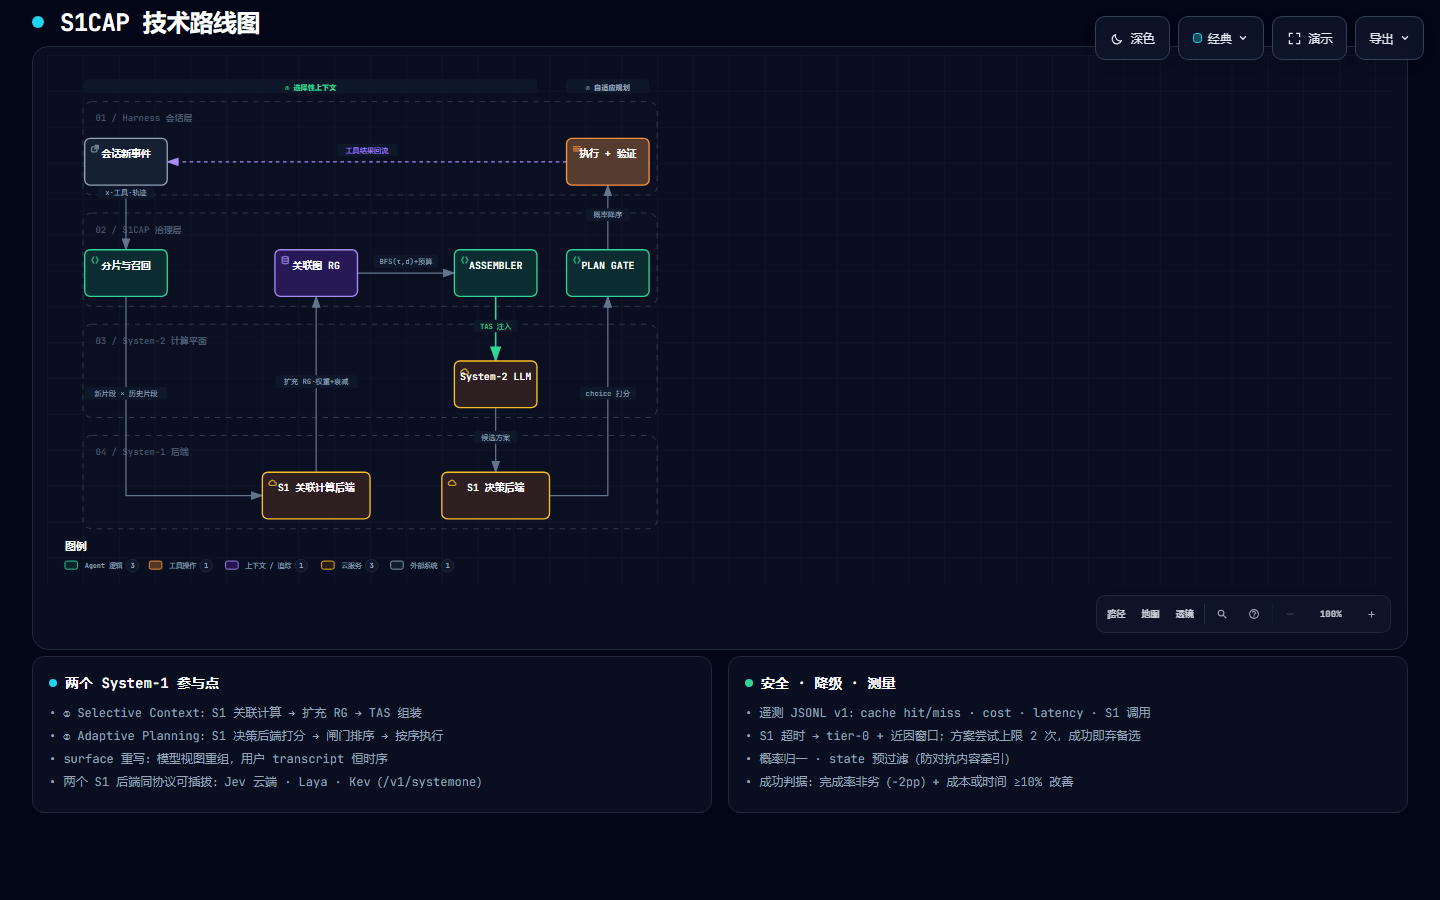
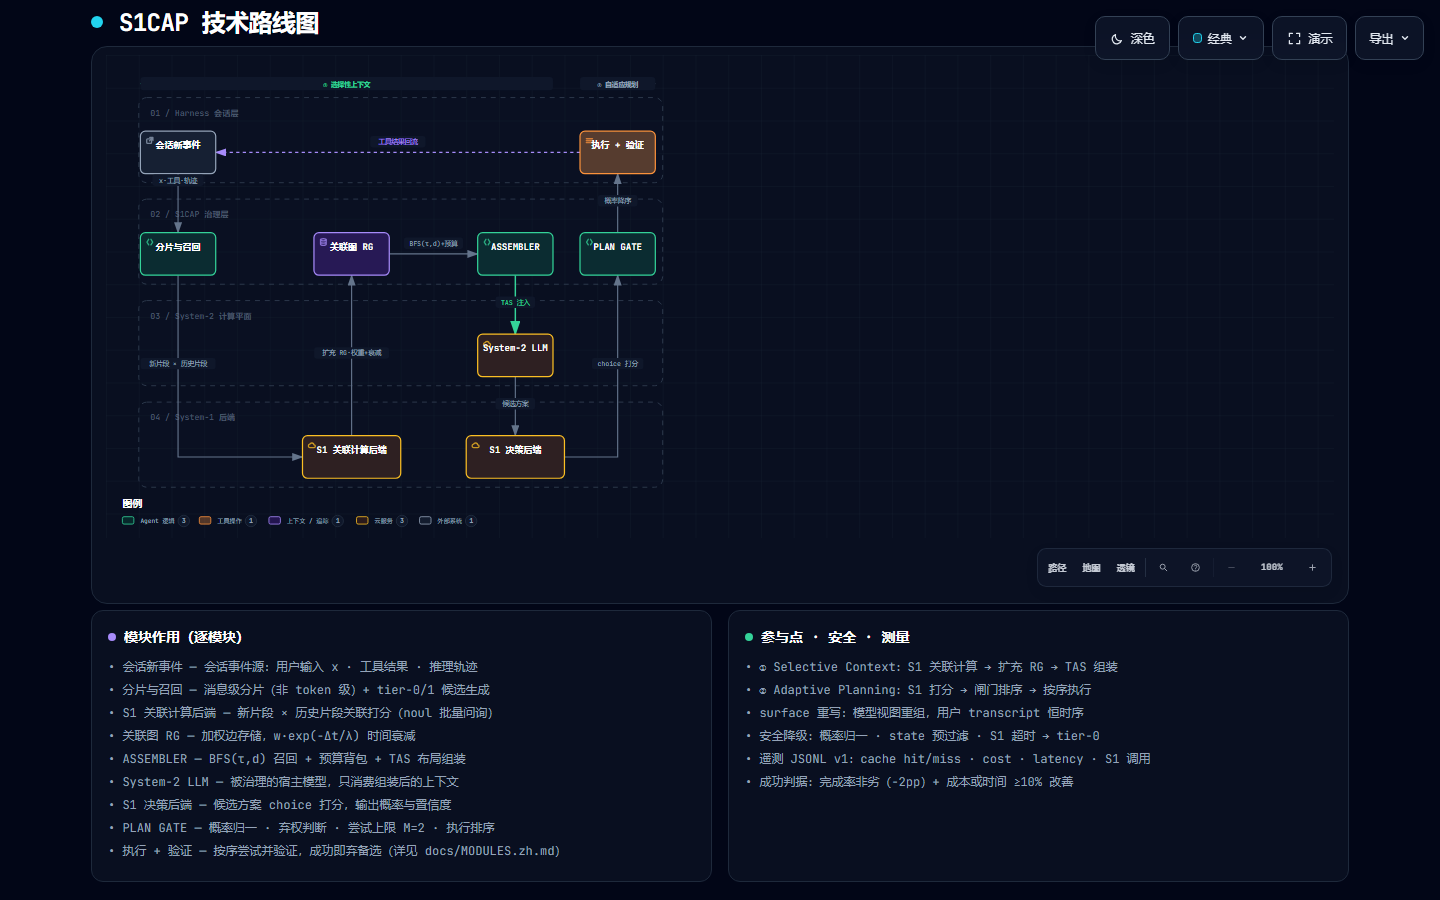
docs(figures): add per-module panel + MODULES.zh.md reference
- cards restructured into two panels: '模块作用（逐模块）' (9 one-line module roles)
  and '参与点 · 安全 · 测量' summary; link to docs/MODULES.zh.md
- docs/MODULES.zh.md: detailed per-module reference (role / IO / params / degradation /
  code location / status + cell-factor mapping table)
- measured trade-off at 1280x800: card row 191->272px, diagram container 541->458px,
  scale 0.791->0.649 (at 1440x900 the scale is ~0.82, ~9px text)
- tried recovering the height via legend:hidden + viewBox 520; renderer reserves the
  legend band regardless, so reverted to the valid [1500,590]

diff --git a/docs/figures/s1cap-technical-route.html b/docs/figures/s1cap-technical-route.html
@@ -5410,26 +5410,33 @@
     <div class="cards">
       <div class="card">
         <div class="card-header">
-          <div class="card-dot cyan"></div>
-          <h3>两个 System-1 参与点</h3>
+          <div class="card-dot violet"></div>
+          <h3>模块作用（逐模块）</h3>
         </div>
         <ul>
-          <li>&bull; ① Selective Context：S1 关联计算 → 扩充 RG → TAS 组装</li>
-          <li>&bull; ② Adaptive Planning：S1 决策后端打分 → 闸门排序 → 按序执行</li>
-          <li>&bull; surface 重写：模型视图重组，用户 transcript 恒时序</li>
-          <li>&bull; 两个 S1 后端同协议可插拔：Jev 云端 · Laya · Kev（/v1/systemone）</li>
+          <li>&bull; 会话新事件 — 会话事件源：用户输入 x · 工具结果 · 推理轨迹</li>
+          <li>&bull; 分片与召回 — 消息级分片（非 token 级）+ tier-0/1 候选生成</li>
+          <li>&bull; S1 关联计算后端 — 新片段 × 历史片段关联打分（noul 批量问询）</li>
+          <li>&bull; 关联图 RG — 加权边存储，w·exp(−Δt/λ) 时间衰减</li>
+          <li>&bull; ASSEMBLER — BFS(τ,d) 召回 + 预算背包 + TAS 布局组装</li>
+          <li>&bull; System-2 LLM — 被治理的宿主模型，只消费组装后的上下文</li>
+          <li>&bull; S1 决策后端 — 候选方案 choice 打分，输出概率与置信度</li>
+          <li>&bull; PLAN GATE — 概率归一 · 弃权判断 · 尝试上限 M=2 · 执行排序</li>
+          <li>&bull; 执行 + 验证 — 按序尝试并验证，成功即弃备选（详见 docs/MODULES.zh.md）</li>
         </ul>
       </div>
 
       <div class="card">
         <div class="card-header">
           <div class="card-dot emerald"></div>
-          <h3>安全 · 降级 · 测量</h3>
+          <h3>参与点 · 安全 · 测量</h3>
         </div>
         <ul>
+          <li>&bull; ① Selective Context：S1 关联计算 → 扩充 RG → TAS 组装</li>
+          <li>&bull; ② Adaptive Planning：S1 打分 → 闸门排序 → 按序执行</li>
+          <li>&bull; surface 重写：模型视图重组，用户 transcript 恒时序</li>
+          <li>&bull; 安全降级：概率归一 · state 预过滤 · S1 超时 → tier-0</li>
           <li>&bull; 遥测 JSONL v1：cache hit/miss · cost · latency · S1 调用</li>
-          <li>&bull; S1 超时 → tier-0 + 近因窗口；方案尝试上限 2 次，成功即弃备选</li>
-          <li>&bull; 概率归一 · state 预过滤（防对抗内容牵引）</li>
           <li>&bull; 成功判据：完成率非劣（−2pp）+ 成本或时间 ≥10% 改善</li>
         </ul>
       </div>

diff --git a/docs/MODULES.zh.md b/docs/MODULES.zh.md
@@ -1,0 +1,159 @@
+# S1CAP 模块作用详解
+
+**版本** 0.1 · 2026-09-28 · 配套 [技术路线图](./figures/s1cap-technical-route.html) · [AGENT_BRIEF.md](./AGENT_BRIEF.md) · [FORMULAS.zh.md](./FORMULAS.zh.md)
+
+技术路线图上的每个方块对应这里的一节。**状态**列：✅ 已实现（M0）· 🔜 计划（M1/M2）· ⬜ 外部依赖。
+
+## 0. 数据流一句话
+
+```
+会话事件 → 分片 → S1 关联计算 → 扩充 RG → BFS 召回 + TAS 组装 → System-2 LLM
+                                                                      ↓ 候选方案
+              执行 + 验证 ← 概率降序 ← PLAN GATE ← choice 打分 ← S1 决策后端
+```
+
+## 1. 会话事件层（Harness Adapter）
+
+| 项 | 内容 |
+|---|---|
+| 位置 | `packages/dsh-plugin`（DSH 一等插件）· `packages/proxy`（OpenAI-compatible 代理，M1） |
+| 职责 | 把 harness 的会话事件（用户消息、助手消息、推理轨迹、工具调用与结果）转成统一 `RawEvent`；把组装结果写回**模型视图**（DSH 走 `surfaceOp: replace`，代理走 messages 重写） |
+| 输入 | harness 事件流（append-only 会话日志） |
+| 输出 | `Segment[]` 交给 SEGMENTER；surface 重写指令交给 harness |
+| 关键约束 | **用户可见的 transcript 永远按时序、永不改写**；只改模型视图 |
+| 失败与降级 | 插件加载失败 → 退化为原生 harness 行为（不影响会话可用性） |
+| 状态 | 🔜 M1 |
+
+## 2. SEGMENTER（分片器）
+
+| 项 | 内容 |
+|---|---|
+| 位置 | [`packages/core/src/segmenter.ts`](../packages/core/src/segmenter.ts) |
+| 职责 | 把一条会话事件切成**消息级**分片（一段话 / 一次工具结果 / 一段推理轨迹），超过预算才切块 |
+| 粒度原则 | **永不按 token 切**——一个语段就是一个语义单元（用户原设计约束） |
+| 输入 → 输出 | `RawEvent` → `Segment[]`（`id / kind / tokens / text / ts / taskTag`） |
+| 关键参数 | `chunkTokens = 512`、`overlapTokens = 64`（超长块带重叠切分，保留上下文接续） |
+| Token 估算 | CJK ≈ 1 token/字，其余 ≈ 4 字符/token（启发式；生产中由 harness `tokenMeter` 提供真实值） |
+| 测试 | `estimateTokens`、单段不分片、300 行工具结果分片且尾块含末行 |
+| 状态 | ✅ M0 |
+
+## 3. 两级召回（RECALL）
+
+| 项 | 内容 |
+|---|---|
+| 位置 | [`packages/core/src/assoc-graph.ts`](../packages/core/src/assoc-graph.ts)（tier-0 / tier-2 能力已实现）· tier-1 嵌入与 S1 编排 🔜 M1 |
+| 职责 | 为每个新分片生成"与哪些历史分片相关"的候选，供关联图落边 |
+| Tier-0（免费） | 元数据边：同任务标签 / 同工具族 / 回复链，固定权重 0.6 |
+| Tier-1（候选） | `embed` 模式：本地嵌入 ANN top-k=32；`s1` 模式：一次 `/v1/systemone` 批量 noul（每批 ≤20 问，防 context rot） |
+| Tier-2（验证） | 只对**可能进入组装**的边做 `score` 精排；置信度低于阈值则弃权，取 `0.8 × tier-1 权重` |
+| 状态 | 部分 ✅（图与查询）/ 🔜（嵌入与 S1 编排，M1） |
+
+## 4. S1 关联计算后端
+
+| 项 | 内容 |
+|---|---|
+| 位置 | [`packages/s1-client`](../packages/s1-client/src/index.ts)（协议客户端 ✅）· 调用编排 🔜 M1 |
+| 职责 | 承担**全部关联性判定**：新片段 × 历史片段 → 关联概率；输出用于扩展 RG 的边权重 |
+| 协议 | `POST {baseUrl}/v1/systemone`，`noul` 问询（P(true)），状态只摄入一次、多问并行评估 |
+| 后端 | Jev 云端（`api.typesafe.ai`，$0.042/M 输入、输出免费）· 本地 `laya-serve` / EdgeJev / Kev |
+| 成本量级 | 每会话约 $0.04（云端）；本地 INT8 约 15.6 ms/决策 |
+| 失败与降级 | 超时（默认 2500 ms）→ 该轮跳过 tier-2；连续不可用 → 只保留 tier-0 + 近因窗口 |
+| 安全 | 传入的 `state` 先做**预过滤**（剥离超长代码块/URL）——决策模型可被对抗内容牵引 |
+| 状态 | ✅ 客户端 / 🔜 编排 |
+
+## 5. 关联图 RG（RG STORE）
+
+| 项 | 内容 |
+|---|---|
+| 位置 | [`packages/core/src/assoc-graph.ts`](../packages/core/src/assoc-graph.ts) |
+| 职责 | 存片段节点与加权边；提供受限 BFS 召回与统计 |
+| 边权重 | `w`（tier-2 精排）+ `wTier1`（候选）+ `source` + `verifiedAt` + `provenance`（供 `/s1 why <seq>` 溯源） |
+| 时间衰减 | `w_eff = w · exp(−Δt/λ)`，λ 默认 30 分钟活跃会话时间 |
+| 召回 | `recall(seeds, {tau, depth, fanout})`：BFS 深度 ≤ d、每节点展开 ≤ k、沿 `w_eff > τ` 扩展；返回按权重降序、含 `via`/`depth` |
+| 已知缺陷修复 | 种子节点不再因回边被计入召回结果（M0 测试抓出并修复） |
+| 持久化 | 内存（M0）→ SQLite（🔜 M1，接口不变） |
+| 状态 | ✅ M0 |
+
+## 6. ASSEMBLER（组装器）
+
+| 项 | 内容 |
+|---|---|
+| 位置 | [`packages/core/src/assembler.ts`](../packages/core/src/assembler.ts) |
+| 职责 | 在 token 预算内决定**模型这一轮看到什么、什么顺序** |
+| 预算 | `B = contextWindow − reserveOutput − fixedOverhead`；召回块上限 `min(⌊B·ρ⌋, 剩余)`，ρ = 0.35 |
+| 选择 | 贪心背包：按 `w_eff` 降序装入，跳过 pinned / 近尾 / 当前输入 |
+| 布局（TAS 开） | `[pinned │ T 状态代理 │ 召回块（权重降序）│ 近尾 K 轮原文 │ x]`——**x 永远最后** |
+| 布局（TAS 关） | 召回块改按时序排列（对应 C3 cell） |
+| 回退 | 召回质量 < `μ·预算`（μ=0.25）→ 退化为近因窗口并记 `fallback: 'recency-window'` |
+| 缓存感知 | `cacheStability.prefixTokensStable` 输出固定前缀 token 数，供 H3 缓存盈亏核算 |
+| 状态 | ✅ M0（回放一致性测试 🔜 M1） |
+
+## 7. System-2 LLM（宿主模型）
+
+| 项 | 内容 |
+|---|---|
+| 位置 | harness 的 provider 配置（本项目**不修改**模型与 harness 本体） |
+| 职责 | 消费组装后的上下文，产出推理与**候选方案**；执行阶段产生工具调用 |
+| 主模型 | `deepseek-flash`（DeepSeek-V4.1-Flash，1M ctx，temperature 0） |
+| 换模检查 | GLM-5.3（10% 子样本，验证 provider 无关性） |
+| 状态 | ⬜ 外部 |
+
+## 8. S1 决策后端
+
+| 项 | 内容 |
+|---|---|
+| 位置 | [`packages/s1-client`](../packages/s1-client/src/index.ts) + [`packages/core/src/plan-gate.ts`](../packages/core/src/plan-gate.ts) |
+| 职责 | 对 LLM 给出的候选方案做**一次 choice 打分**，输出每个方案的概率与置信度 |
+| 问询形态 | `state = {任务简报, x, T}`；`criteria` = 各方案摘要（≤8 项，保护本地 Laya 的 20 选项上限） |
+| 拓扑 | 方案由 **LLM 直接交给本后端**；打分结果交给 PLAN GATE（闸门不自己发起 S1 调用） |
+| 已知弱点应对 | Jev 概率不保证归一 → 由闸门统一归一；弃权阈值 0.5 |
+| 状态 | ✅ 打分与归一（客户端 + `normalizeProbs`）· 🔜 端到端接线（M2） |
+
+## 9. PLAN GATE（方案闸门）
+
+| 项 | 内容 |
+|---|---|
+| 位置 | [`packages/core/src/plan-gate.ts`](../packages/core/src/plan-gate.ts) |
+| 职责 | 消费 S1 打分，产出**执行顺序**与尝试预算；不做模型调用 |
+| 归一化 | `p̂_i = p_i / Σp_j`（修 Jev 的 Σp≠1，文档实例 1.19） |
+| 排序 | 按 `p̂` 降序；**弃权**（最高置信度 < 0.5 或无打分）→ 保持 LLM 自身顺序 |
+| 尝试控制 | `AttemptController`：上限 **M = 2**（候选方案 m ≤ 3）；任一方案通过验证即停并丢弃其余 |
+| 输出 | `{ order, probs, abstained }` + 每方案 `{prob, confidence, executed, verified, savedTokensEst}` 遥测 |
+| 状态 | ✅ M0（含测试：归一、弃权保序、M=2 提前成功/封顶） |
+
+## 10. 执行 + 验证
+
+| 项 | 内容 |
+|---|---|
+| 位置 | harness 工具执行层 + `bench/runners`（M2） |
+| 职责 | 按闸门给出的顺序尝试方案；每个方案完成后用**验证器**判定是否完成 |
+| 验证器 | benchmark 原生（SWE-bench 测试 / Terminal-Bench 测试套件 / τ² 环境状态） |
+| 成功后 | 丢弃未执行方案，记录节省估计；失败且未达上限 → 尝试次选方案 |
+| 时间统计 | 扣除**权限审批等待**（自动批准沙箱下为 0） |
+| 状态 | 🔜 M2 |
+
+## 11. TELEMETRY（遥测）
+
+| 项 | 内容 |
+|---|---|
+| 位置 | [`packages/core/src/telemetry.ts`](../packages/core/src/telemetry.ts) |
+| 职责 | 版本化 JSONL 记录全链路，支撑论文的成本/时延/质量三类指标 |
+| 事件类型 | `llm_call`（含 cache hit/miss 拆分、净时延、审批等待）· `s1_call`（角色 assoc/decide、问题数）· `tool_call` · `assembly` · `plan_gate` |
+| 成本模型 | `c = p_hit·hit + p_miss·miss + p_out·out`；`summarizeTask()` 汇总 $/任务、命中率、调用次数与时延 |
+| 价格表 | `deepseek-flash` 峰/谷 · `deepseek-v4-pro` · `glm-5.3(-flash)` · Jev 输入价 0.042/M |
+| 契约 | schema v1：字段**只增不改名**（跑完第一轮基准后改字段名会让数据不可比） |
+| 状态 | ✅ M0 |
+
+---
+
+## 附：模块 → 消融因子映射
+
+| 模块 | C1 基线 | C2 +TAS | C3 +S1 | C4 完整 |
+|---|---|---|---|---|
+| SEGMENTER / 事件层 | 原生 | 原生 | 原生 | 原生 |
+| S1 关联计算 + RG + 召回 | 关 | 关 | **开** | **开** |
+| ASSEMBLER（TAS 布局） | 关（时序追加） | **开** | 关（时序） | **开** |
+| S1 决策后端 + PLAN GATE | 关 | 关 | **开** | **开** |
+| TELEMETRY | 开 | 开 | 开 | 开 |
+
+对应 `bench/cells/C{1..4}.json`。
